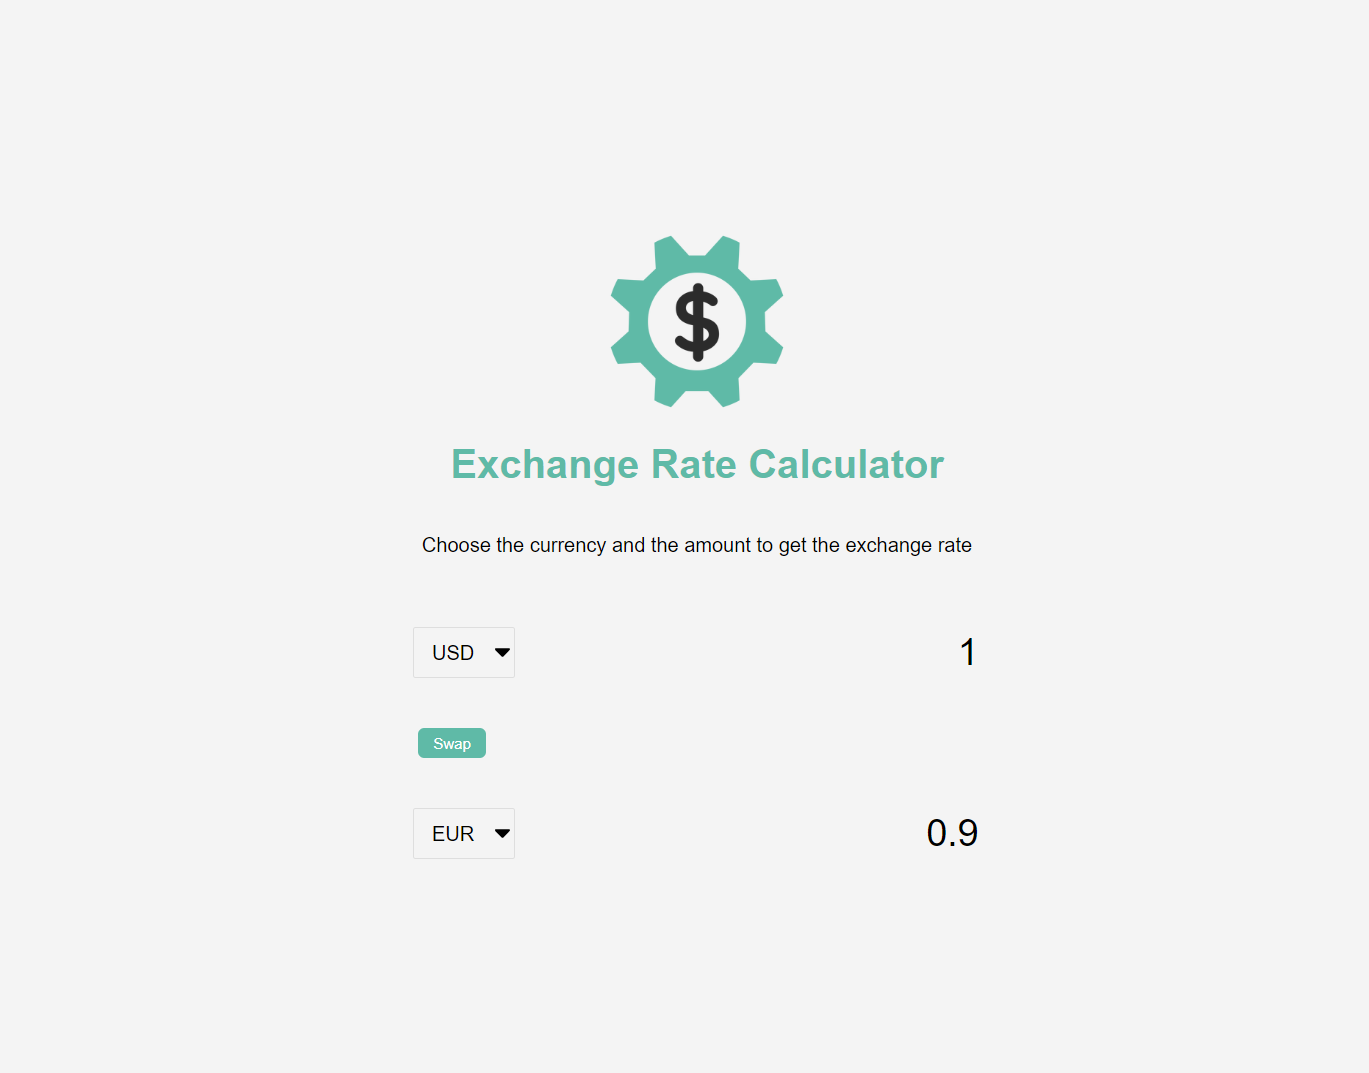
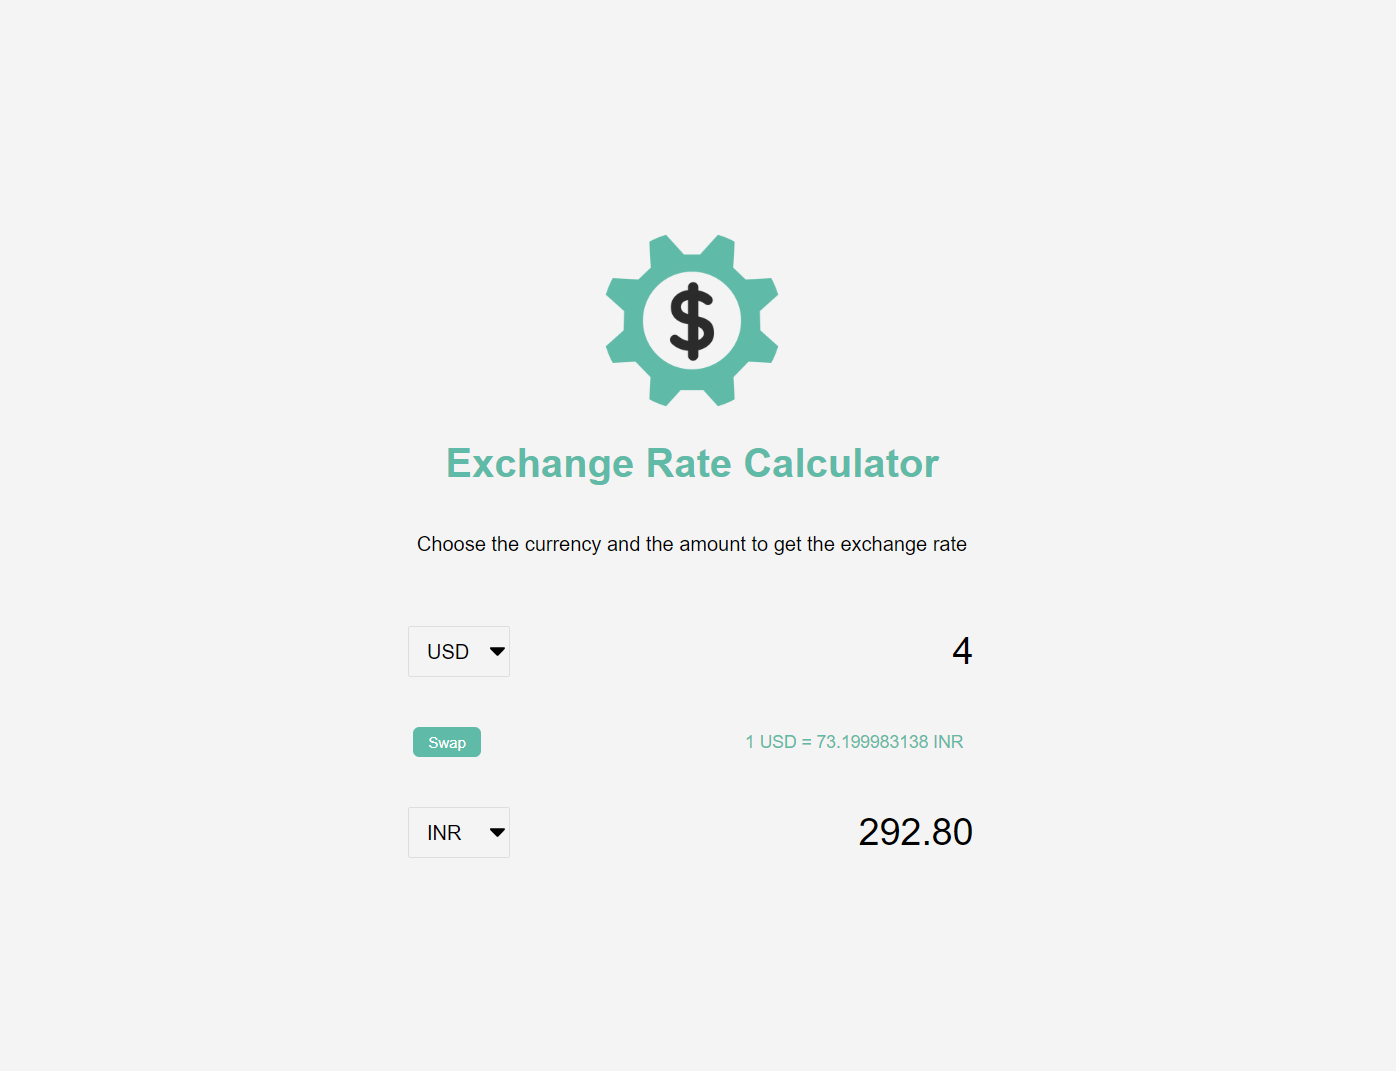
finalized

diff --git a/src/script.js b/src/script.js
@@ -1,18 +1,18 @@
 (function populateSelectWithOptions() {
     // prettier-ignore
-    const currencyArr = ['AED', 'ARS', 'AUD', 'BGN', 'BRL', 'BSD', 'CAD', 'CHF', 'CLP', 'CNY', 'COP', 'CZK',
-            'DKK', 'DOP', 'EGP', 'EUR', 'FJD', 'GBP', 'GTQ', 'HKD', 'HRK', 'HUF', 'IDR', 'ILS',
-            'INR', 'ISK', 'JPY', 'KRW', 'KZT', 'MXN', 'MYR', 'NOK', 'NZD', 'PAB', 'PEN', 'PHP', 
-            'PKR', 'PLN', 'PYG', 'RON', 'RUB', 'SAR', 'SEK', 'SGD', 'THB', 'TRY', 'TWD', 'UAH',
-            'USD', 'UYU', 'VND', 'ZAR'
-        ];
+    const currencyArr = [ 
+                        'CAD', 'HKD', 'ISK', 'PHP', 'DKK', 'HUF', 'CZK', 'GBP', 'RON',
+                        'SEK', 'IDR', 'INR', 'BRL', 'RUB', 'HRK', 'JPY', 'THB', 'CHF', 'EUR',
+                        'MYR', 'BGN', 'TRY', 'CNY', 'NOK', 'NZD', 'ZAR', 'USD', 'MXN',
+                        'SGD', 'AUD', 'ILS', 'KRW', 'PLN',
+    ];
 
     currencyArr.forEach((currency) => {
         const selectEl = document.createElement('option');
         selectEl.setAttribute('value', currency);
         selectEl.innerText = currency;
 
-        if (currency === 'USD') selectEl.setAttribute('selected', true);
+        if (currency === 'INR') selectEl.setAttribute('selected', true);
 
         document.getElementById('currency-one').append(selectEl);
     });
@@ -22,10 +22,45 @@
         selectEl.setAttribute('value', currency);
         selectEl.innerText = currency;
 
-        if (currency === 'EUR') selectEl.setAttribute('selected', true);
+        if (currency === 'USD') selectEl.setAttribute('selected', true);
 
         document.getElementById('currency-two').append(selectEl);
     });
 })();
 
+const currencyElOne = document.getElementById('currency-one');
+const amountElOne = document.getElementById('amount-one');
+const currencyElTwo = document.getElementById('currency-two');
+const amountElTwo = document.getElementById('amount-two');
 
+const rateEl = document.getElementById('rate');
+const swapBtn = document.getElementById('swap');
+
+const calculate = () => {
+    const currency_one = currencyElOne.value;
+    const currency_two = currencyElTwo.value;
+
+    fetch(`https://api.exchangeratesapi.io/latest?base=${currency_one}`)
+        .then((res) => res.json())
+        .then((data) => {
+            const rates = data.rates[currency_two];
+
+            rateEl.innerText = `1 ${currency_one} = ${rates} ${currency_two}`;
+
+            amountElTwo.value = (amountElOne.value * rates).toFixed(2);
+        });
+};
+
+calculate();
+
+currencyElOne.addEventListener('change', calculate);
+amountElOne.addEventListener('input', calculate);
+currencyElTwo.addEventListener('change', calculate);
+amountElTwo.addEventListener('input', calculate);
+
+swapBtn.addEventListener('click', () => {
+    const temp = currencyElOne.value;
+    currencyElOne.value = currencyElTwo.value;
+    currencyElTwo.value = temp;
+    calculate();
+});

diff --git a/src/index.html b/src/index.html
@@ -22,7 +22,7 @@
             </div>
 
             <div class="swap-rate-container">
-                <button class="btn" id="rate">
+                <button class="btn" id="swap">
                     Swap
                 </button>
                 <div class="rate" id="rate"></div>
